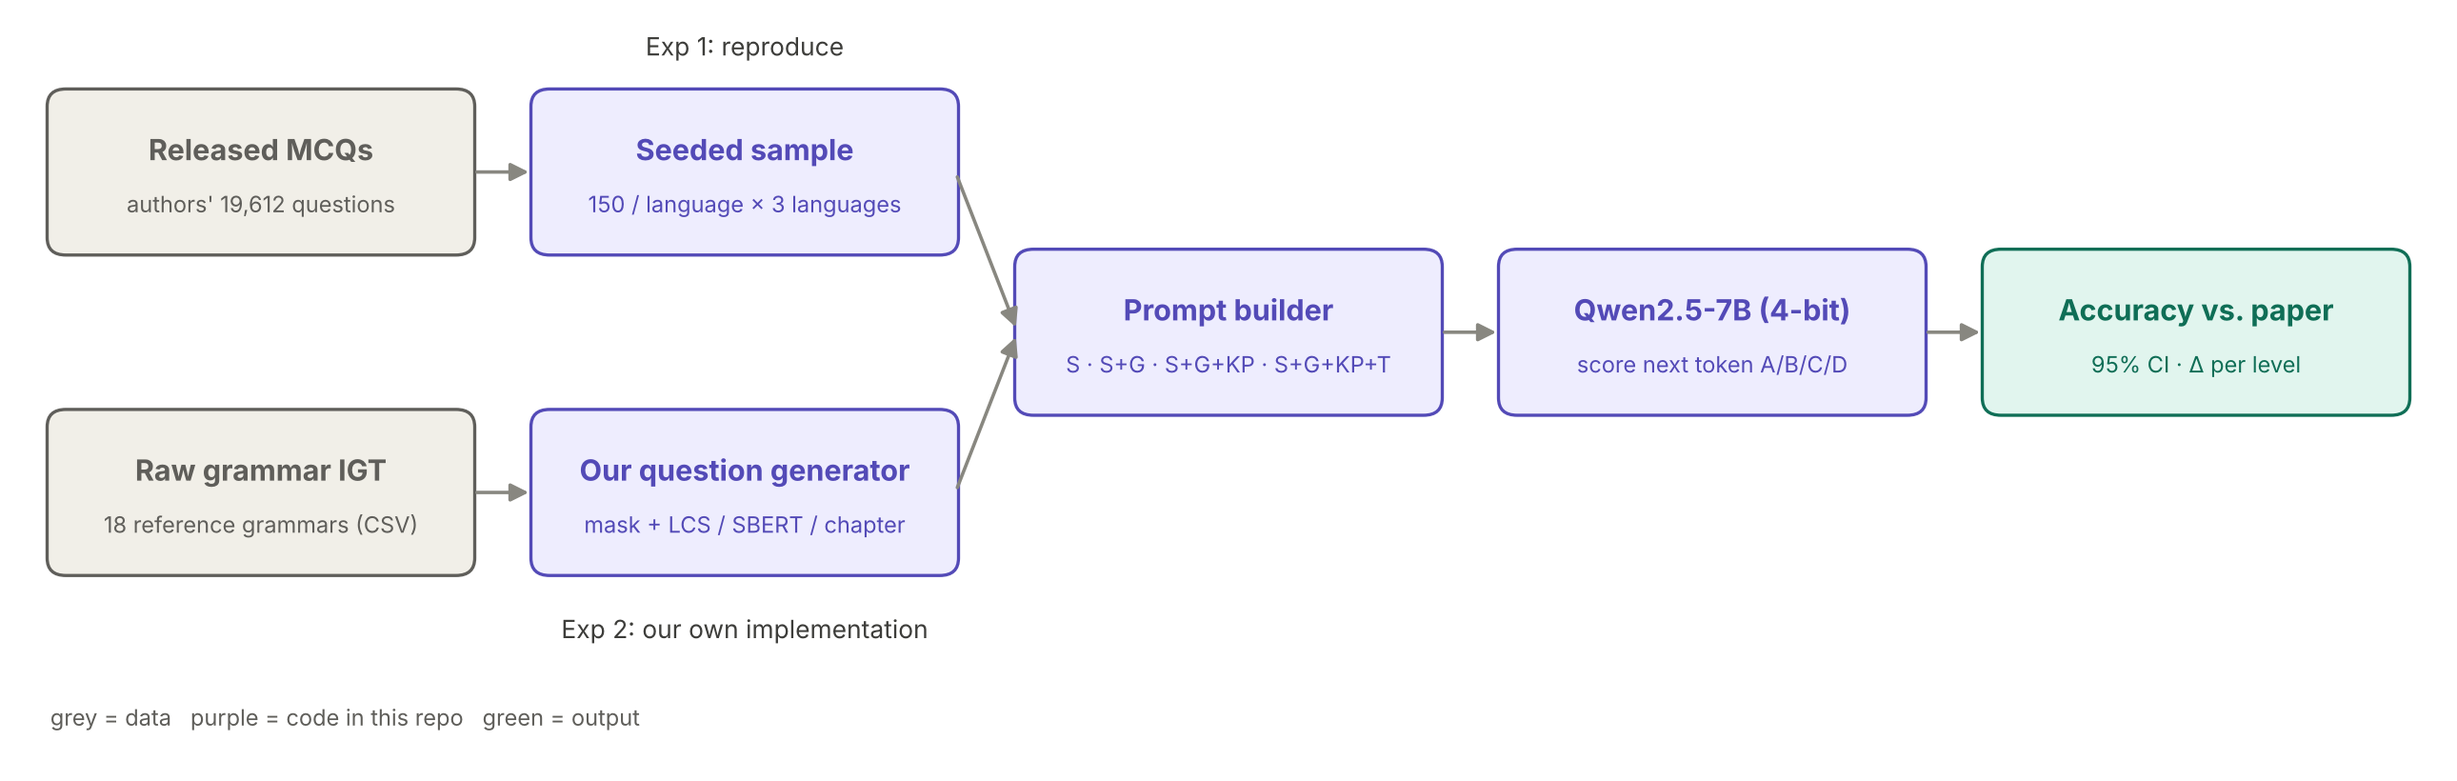
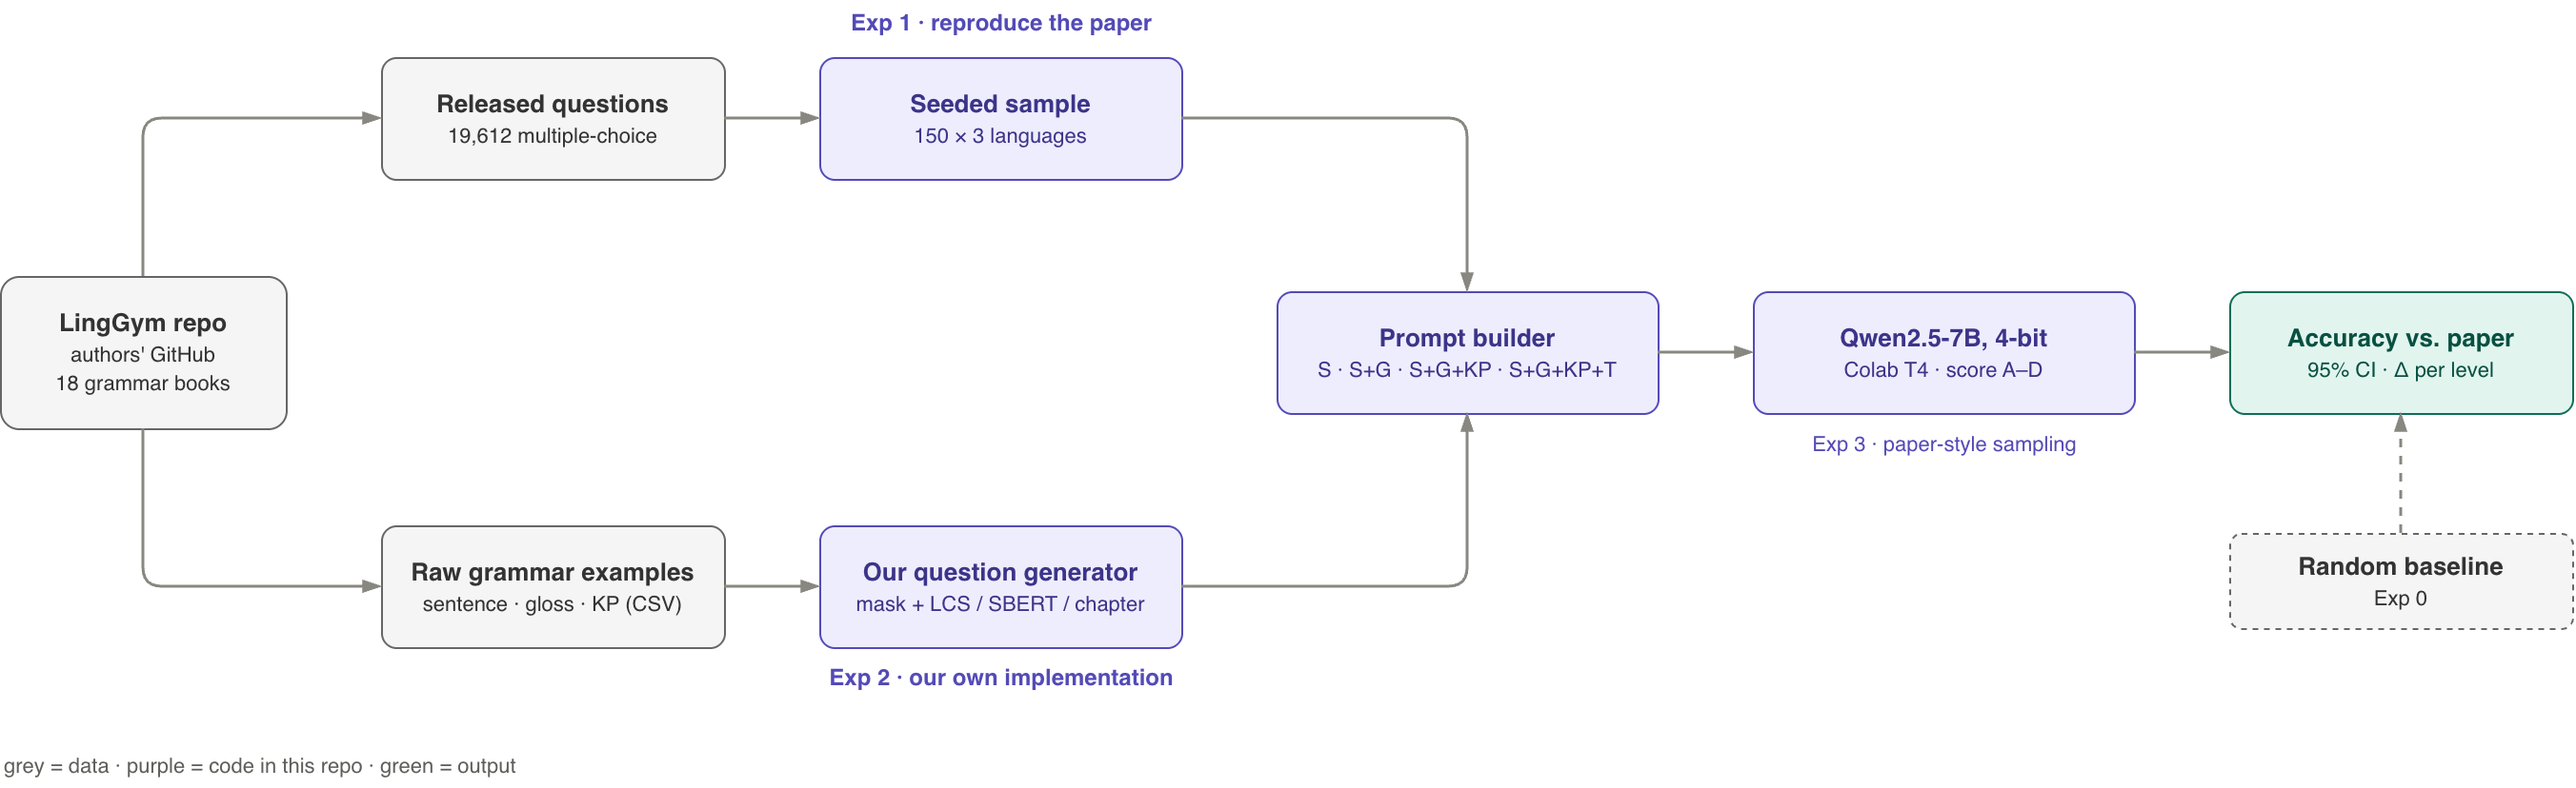
added results

diff --git a/README.md b/README.md
@@ -1,112 +1,70 @@
-# LingGym reproduction: Hacker & Implementer
+# LingGym reproduction
 
-A small, from-scratch reproduction of
+Thanush Dinesh, CSCI3052U Machine Learning, individual assignment (hacker & implementer).
 
-> Changbing Yang, Franklin Ma, Freda Shi, Jian Zhu. **LingGym: How Far Are LLMs from Thinking Like Field Linguists?** EMNLP 2025, pp. 1314–1340. [paper](https://aclanthology.org/2025.emnlp-main.69/) · [authors' repo](https://github.com/changbingY/LingGym)
+Reproduction of Yang, Ma, Shi & Zhu, *LingGym: How Far Are LLMs from Thinking Like Field Linguists?*, EMNLP 2025 ([paper](https://aclanthology.org/2025.emnlp-main.69/), [authors' repo](https://github.com/changbingY/LingGym)).
 
-**The paper in one paragraph.** The authors take example sentences (interlinear glossed text, IGT) from
-18 grammar books of low-resource languages, hide one word, and ask an LLM to pick the right word + gloss
-from 4 options. They give the model more and more help: the sentence only (**S**), plus the word-by-word
-gloss (**G**), plus the grammar explanation from the book (**KP**, "knowledge point"), plus the English
-translation (**T**). Accuracy climbs with every hint (Qwen2.5-7B: 33% → 42% → 56% → 71%; chance is 25%).
+LingGym takes example sentences from 18 grammar books, hides one word, and asks an LLM to pick the right word + gloss from 4 options. The model gets more hints each time: sentence only (S), + gloss (G), + grammar explanation (KP), + English translation (T). In the paper Qwen2.5-7B goes 33% → 42% → 56% → 71% (chance is 25%).
 
-**What this repo does.**
-
-| | Paper | This reproduction |
-|---|---|---|
-| Data | 19,612 questions, 18 languages | seeded sample of 150 questions × 3 languages (Pichi, Papuan Malay, Kalamang) |
-| Questions | authors' generator | **Exp 1** authors' released questions · **Exp 2** questions from **our own generator** (`src/question_gen.py`) |
-| Model | 10 LLMs | Qwen2.5-7B-Instruct, 4-bit, on a free Colab T4 |
-| Answer extraction | sample text (T=0.7), parse letter | read the next-token score of A/B/C/D (**Exp 3** also runs the paper's sampling setup) |
-| Levels | S, S+G, S+G+KP, S+G+KP+T | same (all 8 combinations with `levels="all"`) |
+What I did:
+- Exp 1: ran Qwen2.5-7B (4-bit, free Colab T4) on a seeded sample of the authors' questions: 150 each from Pichi, Papuan Malay and Kalamang.
+- Exp 2: wrote my own question generator (`src/question_gen.py`) and ran the same model on its questions.
+- Exp 3: re-ran the paper's sampling setup on 150 questions to check my scoring shortcut.
+- Exp 0: random baseline.
 
 ![pipeline](figures/pipeline.png)
 
----
-
-## Repository layout
+## Repo layout
 
 ```
-linggym-repro/
-├── README.md
-├── requirements.txt          # versions used for our results
-├── requirements-colab.txt    # minimal installs on top of Google Colab
-├── notebook/linggym_reproduction.ipynb  # ★ the whole pipeline in one notebook: data → our generator → live demo → experiments → results
-├── src/                      # all the algorithm code, imported by the notebook
-│   ├── seed.py               # fixes random / numpy / torch seeds
-│   ├── data.py               # parses the authors' released questions
-│   ├── question_gen.py       # ★ our own question generator (mask + 3 distractor types)
-│   ├── prompts.py            # ★ prompt template for S / S+G / S+G+KP / S+G+KP+T
-│   ├── evaluate.py           # ★ model loading, A-D scoring, paper-style sampling, resume
-│   ├── experiment.py         # runs one experiment and saves config + environment
-│   └── analysis.py           # accuracy, 95% bootstrap CI, comparison to paper, plot
-├── data/
-│   ├── raw/                  # (git-ignored) downloaded LingGym repo
-│   └── processed/            # the exact question sets we evaluated (committed)
-├── results/
-│   ├── reference/            # paper's Table 3 and Appendix B numbers, typed in as CSV
-│   └── <run>/                # predictions.csv, accuracy.csv, config.json, environment.json
-└── figures/
+notebook/linggym_reproduction.ipynb   runs everything
+src/
+  seed.py           seeds
+  data.py           loads the authors' questions
+  question_gen.py   my question generator
+  prompts.py        prompt for each hint level
+  evaluate.py       model loading and scoring
+  experiment.py     runs one experiment
+  analysis.py       accuracy, CI, comparison with the paper
+data/processed/     the questions I evaluated
+results/            one folder per experiment + comparison CSVs
+results/reference/  the paper's numbers (Table 3, Appendix B)
+figures/            pipeline (draw.io) and results chart
 ```
 
-★ = core code.
+## How to run
 
----
+Colab (what I used):
+1. Open `notebook/linggym_reproduction.ipynb` in Colab (File → Open notebook → GitHub).
+2. Runtime → Change runtime type → T4 GPU.
+3. Run all. The first cell clones this repo and installs `requirements-colab.txt`.
 
-## How to reproduce
+A full run takes about 40 minutes. The saved predictions in `results/` are reused, so a rerun finishes the experiments almost straight away. Delete a `results/<run>/predictions.csv` to redo that experiment.
 
-Everything runs from **`notebook/linggym_reproduction.ipynb`**. Each experiment has its own labelled section:
-
-| Notebook section | Result it produces |
-|---|---|
-| Part 1 · Data | `data/processed/released_sample.jsonl` (150 questions × 3 languages, seeded) |
-| Part 2 · Our question generator | `data/processed/own_questions.jsonl` |
-| Part 4 · Exp 0 | `results/exp0_random/`: random baseline |
-| Part 4 · Exp 1 | `results/exp1_released_qwen7b/`: Qwen2.5-7B on the authors' questions |
-| Part 4 · Exp 2 | `results/exp2_own_qwen7b/`: Qwen2.5-7B on our generator's questions |
-| Part 4 · Exp 3 | `results/exp3_released_qwen7b_sampling/`: paper-style sampling, 50 per language |
-| Part 5 · Results | `results/comparison.csv`, `figures/results_vs_paper.png` |
-
-All settings (seed, languages, sample size, model, quantization, data version) are in the **Settings** cell
-at the top. Every experiment saves its predictions after each batch, so if the run stops, re-running the
-notebook resumes where it left off.
-
-### In Google Colab (recommended, free T4 GPU)
-
-1. Set `REPO_URL` in the first cell of `notebook/linggym_reproduction.ipynb` to this repo's GitHub URL.
-2. Open `notebook/linggym_reproduction.ipynb` in Colab (File → Open notebook → GitHub).
-3. **Runtime → Change runtime type → T4 GPU**.
-4. **Runtime → Run all.** The first cell clones the repo and installs `requirements-colab.txt`.
-   The model download (~5 GB) takes a few minutes; then Exp 0–3 take ~30–40 minutes in total.
-5. The last cell downloads `results.zip` (`results/`, `figures/`, `data/processed/`).
-
-### On your own machine (NVIDIA GPU with ≥ 12 GB)
-
+Locally (NVIDIA GPU, 12 GB+):
 ```bash
 pip install -r requirements.txt
-jupyter notebook notebook/linggym_reproduction.ipynb   # then Run All
+jupyter notebook notebook/linggym_reproduction.ipynb
 ```
 
-Handy changes in the Settings cell: `N_PER_LANGUAGE = 20` for a quick test, `MODEL = "Qwen/Qwen2.5-1.5B-Instruct"`
-for a smaller model, `QUANTIZATION = "none"` for full precision. For the paper's 8-way ablation (Table 4), pass
-`levels="all"` to `run_experiment`.
+Settings (seed, languages, sample size, model, 4-bit or not) are in the second cell of the notebook.
 
-### Reproducibility checklist
+Each notebook section and what it produces:
 
-- **Seeds:** `src/seed.py` seeds `random`, `numpy`, `torch` (+CUDA) and turns on cuDNN determinism; the notebook calls `set_seed(SEED)` before anything else. The seed is also stored in `results/<run>/config.json`.
-- **Data version:** the notebook checks out a fixed commit of the authors' repo (`DATA_COMMIT` in Settings); the processed question files are committed in `data/processed/`.
-- **Library versions:** `requirements.txt` (versions from our Colab run) and `results/<run>/environment.json` (versions + GPU of each actual run). The notebook also saves `results/colab_pip_freeze.txt`.
-- **Determinism:** scoring mode has no sampling. Position ids are set explicitly so left padding (batch size) doesn't shift the input. Different GPU models can still differ in the last decimal place of a logit.
+| Section | Output |
+|---|---|
+| Part 1 | `data/processed/released_sample.jsonl` |
+| Part 2 | `data/processed/own_questions.jsonl` |
+| Part 4 | `results/exp0_random/`, `exp1_released_qwen7b/`, `exp2_own_qwen7b/`, `exp3_released_qwen7b_sampling/` |
+| Part 5 | `results/comparison.csv`, `figures/results_vs_paper.png` |
 
----
+Reproducibility: seeds are fixed for random, numpy and torch (`src/seed.py`), the authors' data is pinned to commit `ce6059b`, library versions are in `requirements.txt`, and every run saves its config and environment in `results/<run>/`.
 
 ## Results
 
-Qwen2.5-7B-Instruct (4-bit) on a Colab T4, 150 questions each from Pichi, Papuan Malay and Kalamang.
-*Paper (matched)* = the paper's Appendix B numbers for these 3 languages. Δ = ours − paper (matched).
-All numbers are accuracy (%) from `results/comparison.csv` and `results/exp*/accuracy.csv`.
+Accuracy (%). "Paper (matched)" is the paper's Appendix B number for the same 3 languages.
 
-| Level | Paper (all 18) | Paper (matched) | Exp 1: released questions | Δ | Exp 2: our questions | Δ | Exp 0: random |
+| Level | Paper (all 18) | Paper (matched) | Exp 1 | Δ | Exp 2 | Δ | Random |
 |---|---|---|---|---|---|---|---|
 | S | 33.0 | 33.4 | 34.2 | +0.9 | 29.9 | −3.5 | 26.9 |
 | S+G | 41.6 | 41.5 | 40.2 | −1.3 | 35.9 | −5.6 | 26.4 |
@@ -115,55 +73,33 @@ All numbers are accuracy (%) from `results/comparison.csv` and `results/exp*/acc
 
 ![results](figures/results_vs_paper.png)
 
-**What this shows**
-- **Exp 1 reproduces the paper.** On the authors' questions we are within 1.3 points of the paper at every level, and the paper's number is inside our 95% confidence interval every time.
-- **Same trend as the paper:** accuracy rises with every hint (34 → 40 → 61 → 76%), well above random guessing (22–27%).
-- **Exp 2: our generator makes harder questions** (3–7 points lower). Across all levels, the model's wrong answers were mostly our LCS (386) or Sentence-BERT (373) distractors rather than the random chapter one (191), so those two strategies make convincing wrong options. We also mask the answer in the grammar explanation more thoroughly (see below), which likely removes some free hints.
-- **Exp 3: our scoring shortcut doesn't change the result.** On the same 150 questions, the paper's sampling method and our scoring method are within 3 points at every level, and no sampled reply was unparseable:
+- Exp 1 matches the paper: within 1.3 points at every level, and the paper's number is inside my 95% CI every time.
+- Exp 2 is 3.5–7.5 points lower, and from S+G up the paper is outside my CI, so my questions are harder. Biggest gap is Papuan Malay (−10.4 at S+G+KP+T, `results/per_language_vs_paper.csv`). When the model got one wrong it usually picked the LCS (386) or SBERT (373) option rather than the random one (191) (`results/exp2_own_qwen7b/wrong_answer_types.csv`).
+- Exp 3: scoring vs the paper's sampling on the same 150 questions differs by less than 3 points (S 32.0 vs 29.3, S+G 42.0 vs 40.0, S+G+KP 57.3 vs 58.0, S+G+KP+T 74.7 vs 74.0).
+- Exp 2 has 448 questions, not 450: two targets were skipped because their gloss was empty or "...".
 
-| Level | Scoring (ours) | Sampling (paper's method) |
-|---|---|---|
-| S | 32.0 | 29.3 |
-| S+G | 42.0 | 40.0 |
-| S+G+KP | 57.3 | 58.0 |
-| S+G+KP+T | 74.7 | 74.0 |
+## Differences from the paper
 
-Per-language results are in `results/exp*/accuracy_by_language.csv`.
+- 450 questions instead of 19,612, so there's about ±4 points of noise per number.
+- 4-bit weights instead of fp16 (to fit a free T4).
+- I read the model's score for A/B/C/D instead of sampling a reply (temperature 0.7) and parsing it. Exp 3 checks this.
+- The prompt follows Figure 4 of the paper, with the instruction changing per hint level. The released files use one instruction for every level.
+- My generator follows the paper's text, which says LCS is computed on the gloss. The authors' script uses the word form instead. I also mask the answer in the grammar explanation more strictly. The released files sometimes still show it, e.g. "Di" when the answer is "di". Their extra filtering means my generator finds more targets (`results/generator_target_counts.csv`).
 
----
+## Challenges
 
-## Differences from the paper (why our numbers can differ)
-
-1. **Sample, not the full benchmark.** 450 questions instead of 19,612, so each accuracy has a ±4-point 95% CI (reported in `comparison.csv`). We compare against the paper's per-language numbers for the same 3 languages, not only the all-language average.
-2. **4-bit quantization.** The paper ran Qwen2.5-7B in fp16 on A6000 GPUs; we use NF4 4-bit to fit a 16 GB T4.
-3. **Answer extraction.** The paper samples a reply (temperature 0.7, top-p 0.9, repetition penalty 1.1, up to 2048 tokens) and reads the letter. We take the highest-scoring letter token (deterministic, can't fail to parse). Exp 3 runs the paper's way on a subset to measure the effect.
-4. **Prompt formatting.** We follow Figure 4 of the paper (including the `Options:` header and an instruction sentence that matches the hint level). The authors' released question files use one fixed instruction for every level.
-5. **Our generator vs. the authors'.** Written from the paper's description (§4.2):
-   - *LCS distractor:* the paper says the LCS is computed on the **gloss**; the authors' released script computes it on the **word form**. We follow the paper text.
-   - *Masking:* we mask the target word and gloss in the knowledge point case-insensitively at word boundaries (the released files sometimes leave a capitalised copy, e.g. *Di* when the answer is *di*).
-   - *Filtering:* the authors drop some targets (e.g. words containing "."), so our generator finds more candidate targets than the paper's Table 1 (compared in notebook Part 2).
-   - *Gloss cleanup:* we strip sentence punctuation copied onto glosses ("talk." → "talk").
-
-## Challenges and solutions
-
-| Challenge | Solution |
+| Problem | Fix |
 |---|---|
-| 7B model in fp16 (~15 GB) doesn't fit a free 16 GB T4 with activations | 4-bit NF4 loading via bitsandbytes (~5.5 GB) |
-| Sampled replies are random, slow, and sometimes not a single letter | Score the A/B/C/D next-token logits instead; keep sampling as Exp 3 for comparison |
-| Colab sessions disconnect during long runs | Predictions are appended to CSV after every batch; re-running resumes |
-| Each grammar uses LaTeX differently (bold on the morpheme line vs. the orthography line in Fwe; bold on part of a word in Kalamang) | Parser accepts both lines and treats a word as a target if any morpheme is bold |
-| Duplicate options: one word can have two glosses (*bíg* = "big" / "be.big") | Distractor search skips glosses whose word is already an option; notebook Part 2 asserts all 4 words and glosses are distinct |
-| Sentence-BERT can't download on machines without Hugging Face access | Automatic TF-IDF fallback (logged as `embedding_backend` in each question) |
-| Answer may still leak through the hints | Measured in the notebook, Part 1 (how often the answer word is still visible in the KP / translation, per language) |
+| 7B model doesn't fit a free T4 in fp16 | load in 4-bit with bitsandbytes |
+| sampling answers was slow and random | score the A–D tokens instead, checked with Exp 3 |
+| Colab disconnecting mid-run | save predictions after every batch and resume |
+| each grammar formats LaTeX differently (e.g. Fwe bolds a different line) | parser handles both lines |
+| duplicate options (one word with two glosses) | skip used words, assert all 4 options differ |
+| answer can leak through the hints | measured per language in `results/answer_leakage.csv` |
 
 ## Credits
 
-- **Data and task:** LingGym by Yang et al. (2025): authors' repo under MIT; grammar texts from Language Science Press under CC BY 4.0. Downloaded at run time; not redistributed here except our processed sample of questions.
-- **Backbone libraries:** Hugging Face `transformers` + `accelerate`, `bitsandbytes` (4-bit), `sentence-transformers` (`paraphrase-MiniLM-L6-v2`, the same model the authors' script uses), scikit-learn, pandas, matplotlib.
-- **Model:** Qwen2.5-7B-Instruct (Qwen team, Apache 2.0).
-- All code in `src/` and the notebook was written for this reproduction. We read the authors' scripts only to check the SBERT model name and the released file format.
-
-## Citation
+Data and task from LingGym (Yang et al., 2025; MIT code, grammars CC BY 4.0). Libraries: transformers, accelerate, bitsandbytes, sentence-transformers (`paraphrase-MiniLM-L6-v2`, same as the authors), pandas, matplotlib. Model: Qwen2.5-7B-Instruct (Apache 2.0). I only looked at the authors' scripts to check the SBERT model name and the file format.
 
 ```bibtex
 @inproceedings{yang-etal-2025-linggym,
